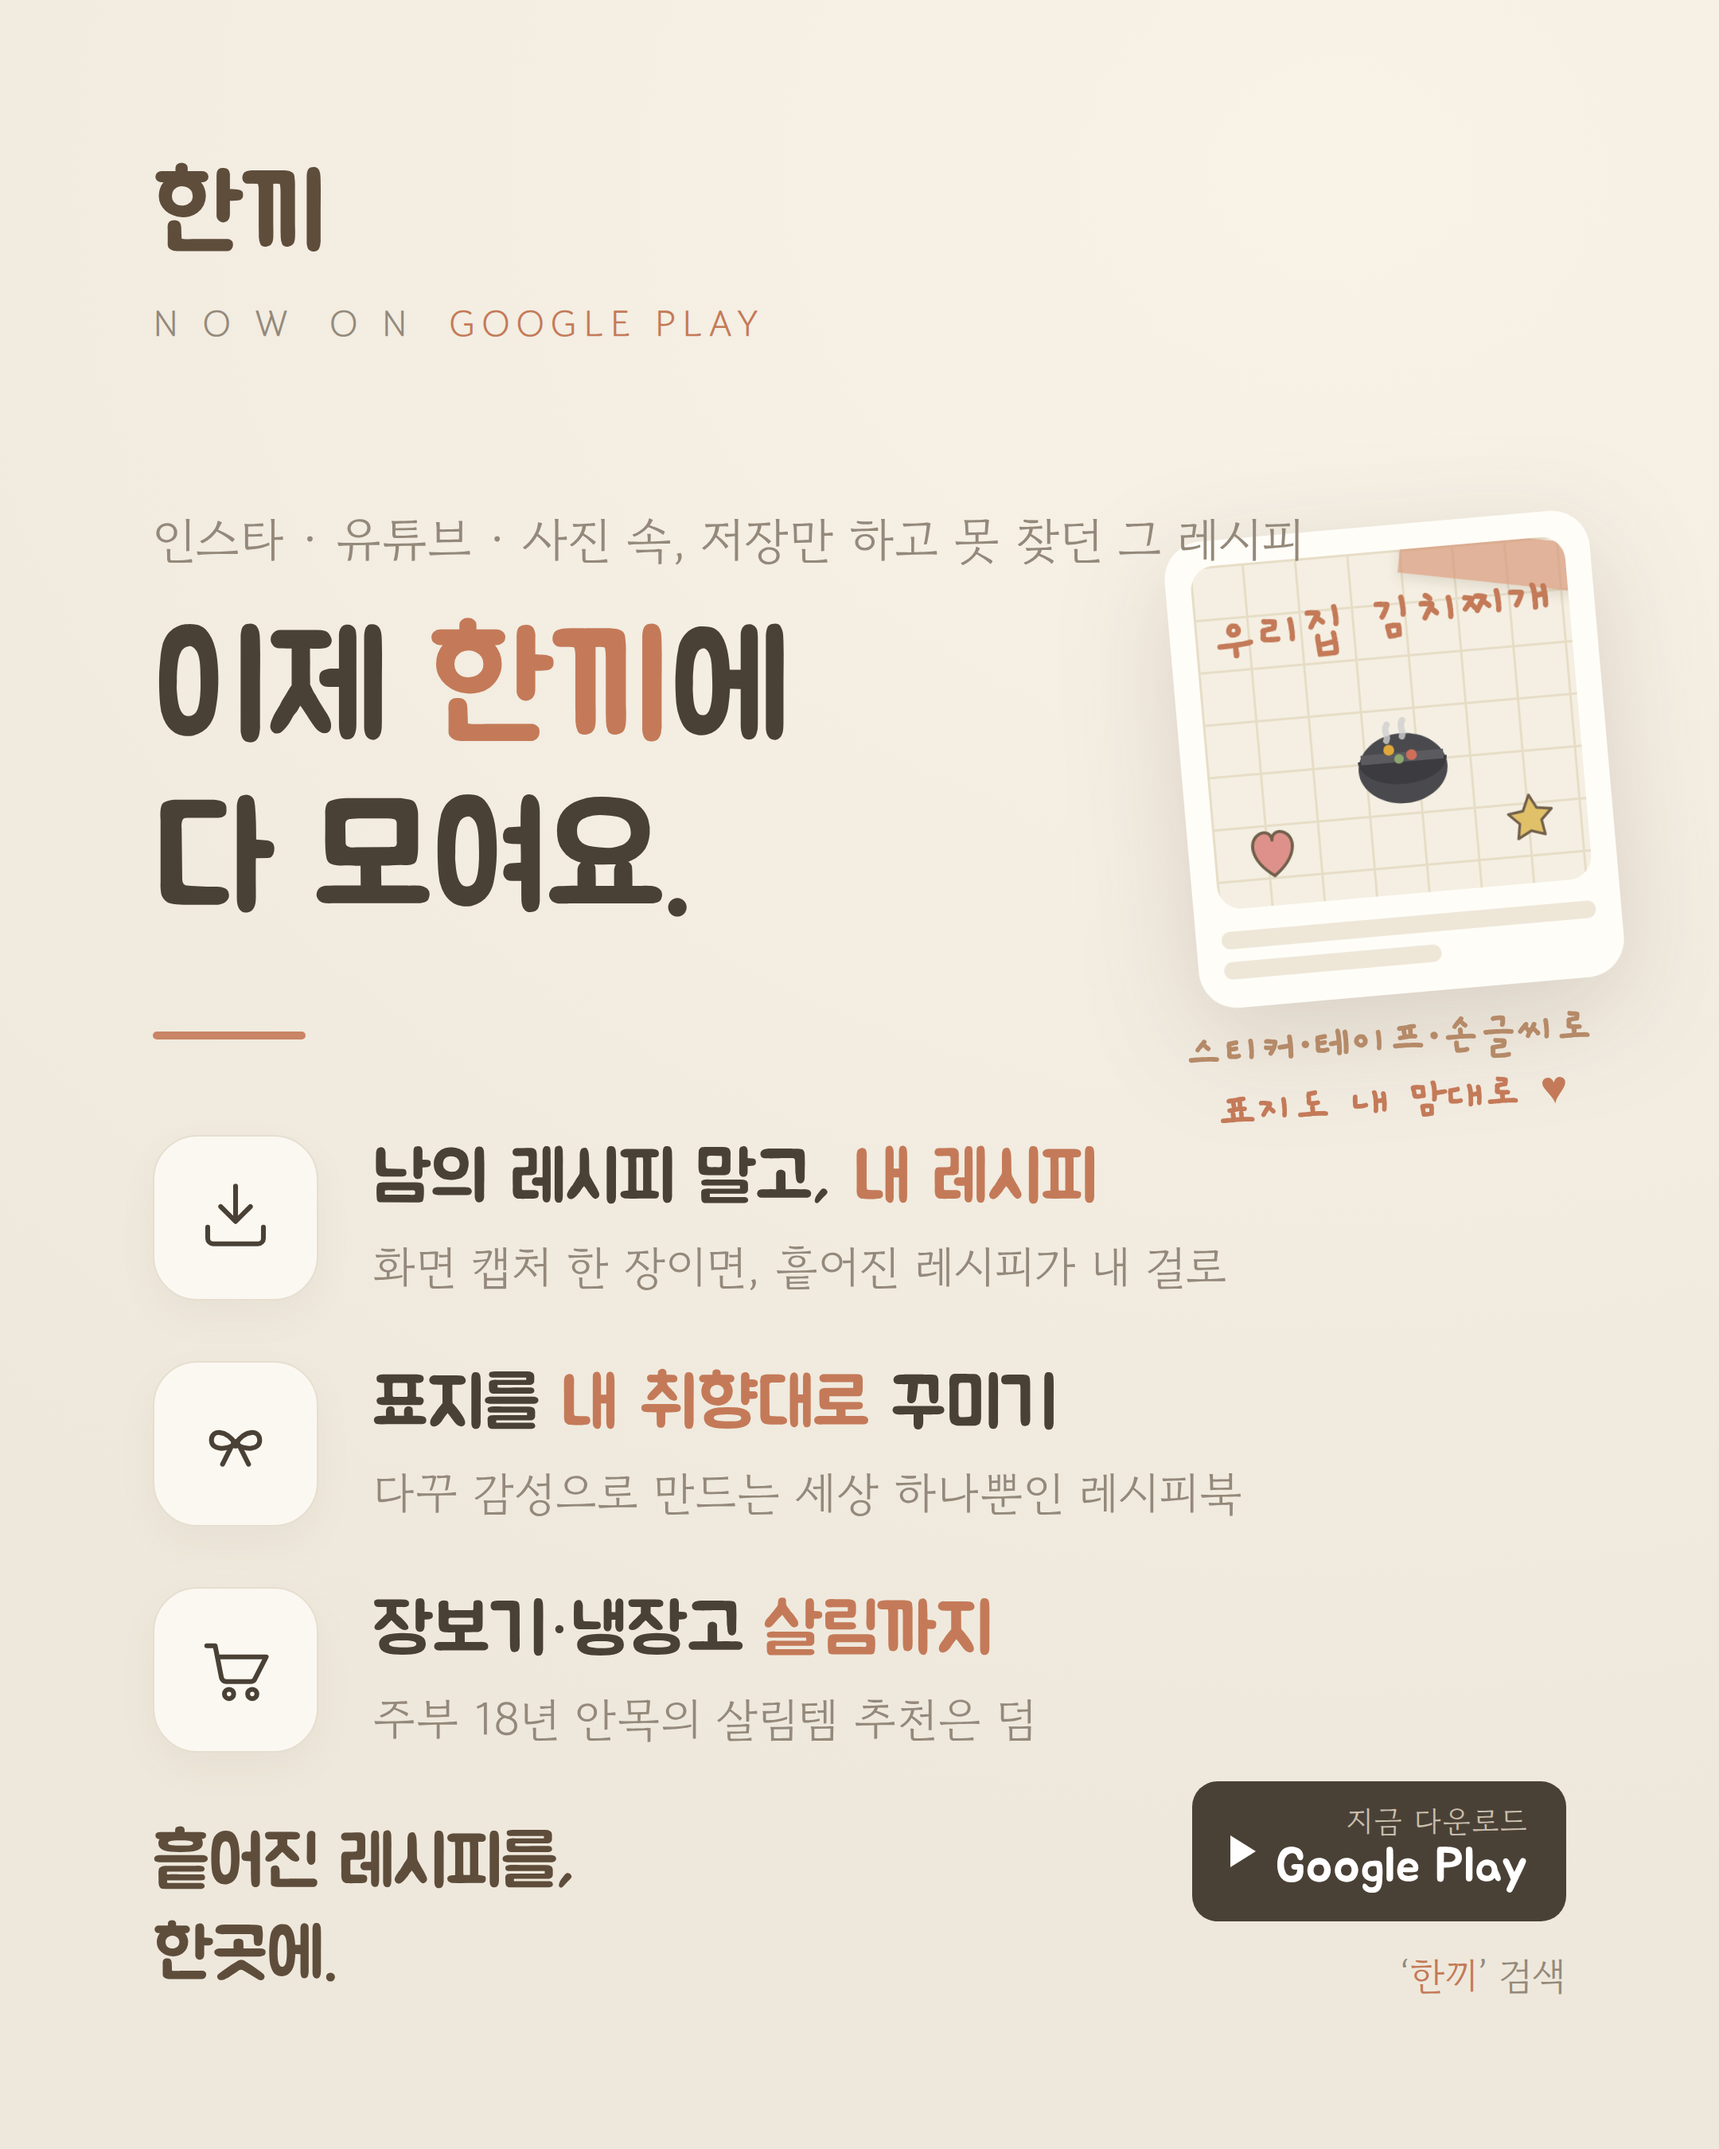
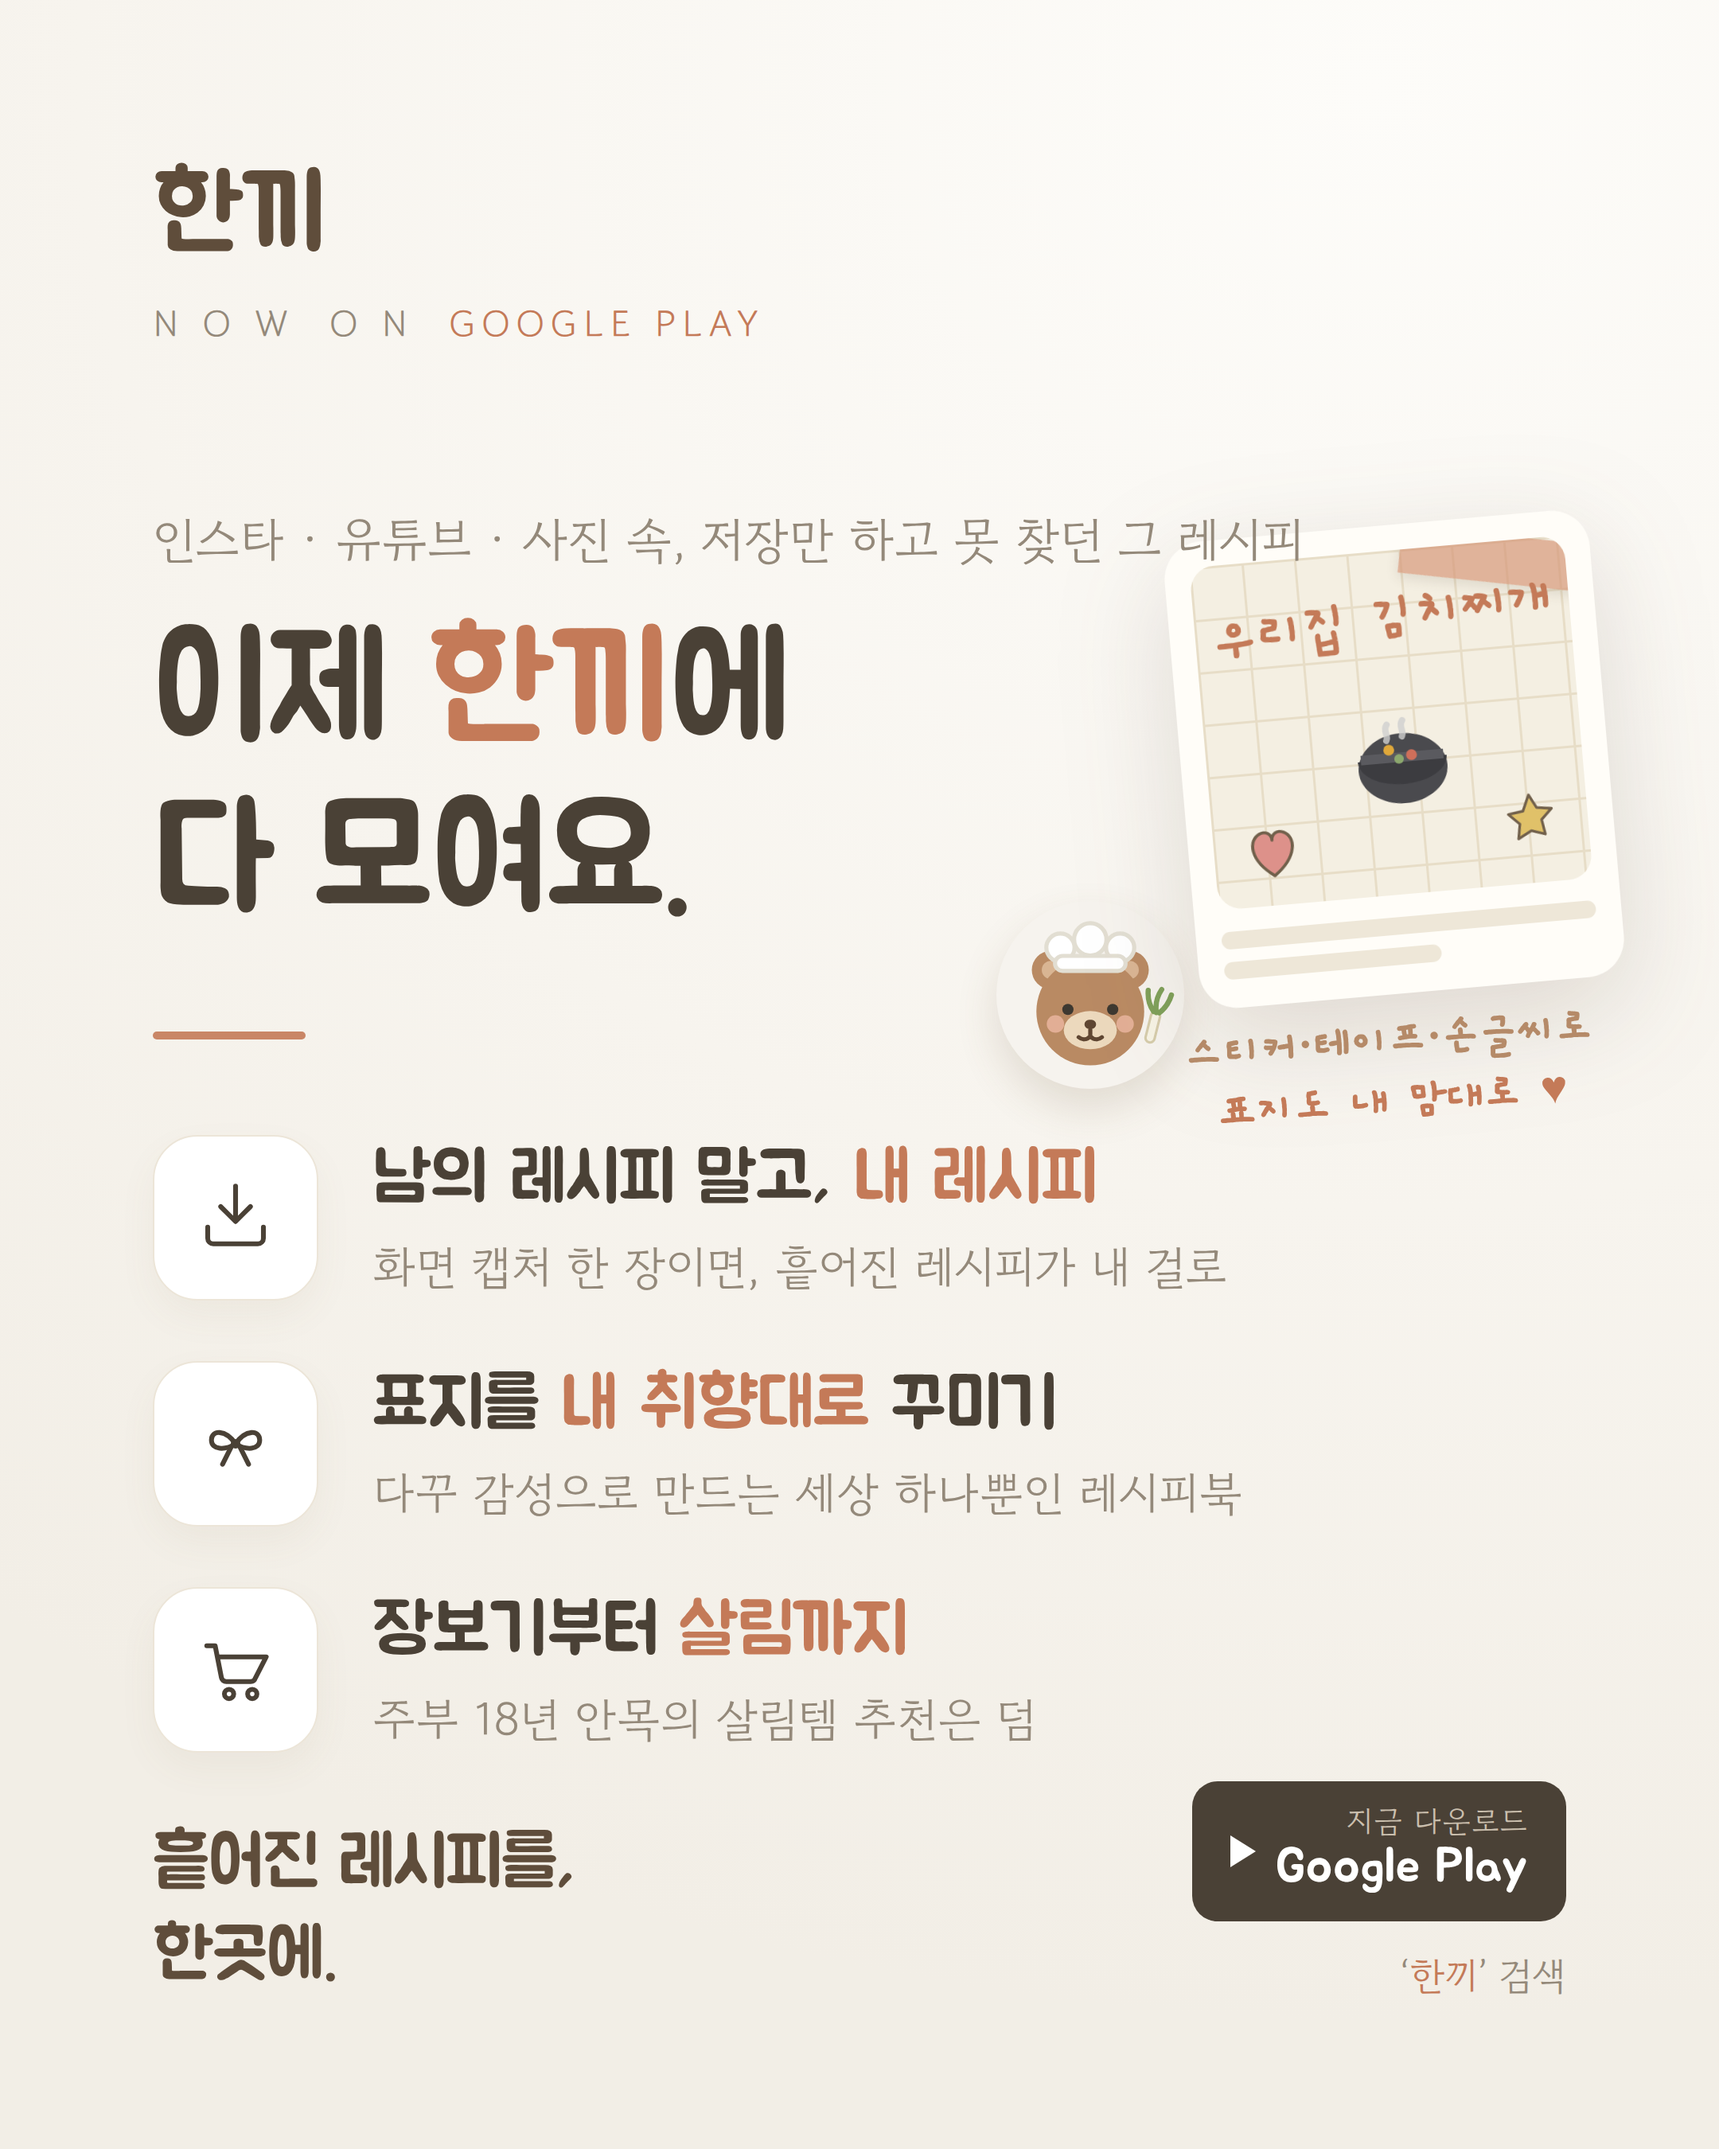
홍보 카드 톤 통일: 하얀 배경 + 곰곰 셰프 빼꼼 + 냉장고 문구 정리(장보기부터 살림까지)
대표 그래픽과 동일한 결로 세트 통일.

Claude-Session: https://claude.ai/code/session_01Hhx7WmfPqapSsbezDHjrDV

Changed region(s): [[0.3102, 0.7467, 0.5894, 0.7778], [0.5894, 0.4356, 0.6824, 0.4978]]

diff --git a/hankki/design/promo/templates/launch-1080x1350.html b/hankki/design/promo/templates/launch-1080x1350.html
@@ -2,11 +2,11 @@
 <link rel="stylesheet" href="../fonts-embed.css">
 <style>
   *{margin:0;padding:0;box-sizing:border-box;-webkit-font-smoothing:antialiased;text-rendering:geometricPrecision}
-  :root{--bg:#f4efe6;--ink:#4a4136;--ink2:#94897a;--line:#e6ded0;--clay:#c47a58;--card:#fbf8f1}
+  :root{--bg:#f7f4ee;--ink:#4a4136;--ink2:#94897a;--line:#ece5d8;--clay:#c47a58;--card:#fff}
   body{background:#777}
   .card{position:relative;overflow:hidden;width:1080px;height:1350px;background:var(--bg);color:var(--ink);
     padding:104px 96px 92px;display:flex;flex-direction:column}
-  .bg-wash{position:absolute;inset:0;background:radial-gradient(120% 80% at 78% 8%, #f8f2e7 0%, #f2ece1 55%, #eee8dc 100%)}
+  .bg-wash{position:absolute;inset:0;background:radial-gradient(130% 90% at 80% 4%, #fdfcf9 0%, #f7f4ee 58%, #f2eee6 100%)}
   .z{position:relative;z-index:2}
   .word{font-family:'Jua';font-size:66px;color:#5f4d3b;letter-spacing:-1px;line-height:1}
   .now{font-family:'GowunDodum';font-size:23px;letter-spacing:4px;color:var(--ink2);margin-top:16px}
@@ -38,6 +38,28 @@
 </style></head><body>
 <div class="card">
   <div class="bg-wash"></div>
+
+  <!-- 곰곰 셰프 — 표지 뒤에서 빼꼼 (대표 그래픽과 톤 통일) -->
+  <div style="position:absolute;top:566px;left:626px;width:118px;height:118px;border-radius:50%;background:#f6f3ee;box-shadow:0 12px 26px rgba(110,84,58,.16);z-index:1;overflow:hidden">
+    <svg viewBox="0 0 48 48" style="width:100%;height:100%;transform:scale(1.06)">
+      <circle cx="14.5" cy="18" r="4.6" fill="#b98a63"/><circle cx="33.5" cy="18" r="4.6" fill="#b98a63"/>
+      <circle cx="14.5" cy="18" r="2.2" fill="#d9b593"/><circle cx="33.5" cy="18" r="2.2" fill="#d9b593"/>
+      <circle cx="24" cy="28" r="13" fill="#b98a63"/>
+      <ellipse cx="24" cy="32.5" rx="6.4" ry="4.6" fill="#ecd9bd"/>
+      <rect x="22.6" y="30" width="2.8" height="2.2" rx="1.1" fill="#5f4632"/>
+      <path d="M24 32.4v1.6M24 34c-.9.9-2 .9-2.8.2M24 34c.9.9 2 .9 2.8.2" stroke="#5f4632" stroke-width="1" fill="none" stroke-linecap="round"/>
+      <circle cx="18.6" cy="27.5" r="1.35" fill="#3d3830"/><circle cx="29.4" cy="27.5" r="1.35" fill="#3d3830"/>
+      <circle cx="15.6" cy="31" r="2.1" fill="#f0b9a6" opacity="0.75"/><circle cx="32.4" cy="31" r="2.1" fill="#f0b9a6" opacity="0.75"/>
+      <circle cx="16.8" cy="12.6" r="3.4" fill="#fff" stroke="#e2ded2" stroke-width="1"/>
+      <circle cx="24" cy="10.6" r="3.9" fill="#fff" stroke="#e2ded2" stroke-width="1"/>
+      <circle cx="31.2" cy="12.6" r="3.4" fill="#fff" stroke="#e2ded2" stroke-width="1"/>
+      <rect x="15.5" y="14.6" width="17" height="3.6" rx="1.8" fill="#fff" stroke="#e2ded2" stroke-width="1"/>
+      <g transform="rotate(14 39.5 30)">
+        <rect x="38.4" y="28" width="2.2" height="7.6" rx="1.1" fill="#f7f3e4" stroke="#d5cbaa" stroke-width="0.6"/>
+        <path d="M39.5 28.2c-.8-1.9-.8-3.8-.1-5.7M38.8 28.1c-1.4-1.2-2.2-2.8-2.5-4.6M40.2 28.1c1.1-1.4 1.7-3 1.8-4.9" stroke="#7fa05a" stroke-width="1.25" fill="none" stroke-linecap="round"/>
+      </g>
+    </svg>
+  </div>
 
   <!-- 꾸미기 맛보기: 작게 꾸민 레시피 표지 하나 (셀링포인트 시각화) -->
   <div style="position:absolute;top:330px;right:70px;width:268px;z-index:1;transform:rotate(-5deg);filter:drop-shadow(0 20px 34px rgba(90,65,45,.17))">
@@ -77,7 +99,7 @@
     </div>
     <div class="row">
       <div class="ic"><svg viewBox="0 0 48 48" fill="none" stroke="#4a4136" stroke-width="2.6" stroke-linecap="round" stroke-linejoin="round"><path d="M8.5 11H13l3.4 17.2a2.6 2.6 0 0 0 2.55 2.1h13.2a2.6 2.6 0 0 0 2.5-1.9L40.5 17H15"/><circle cx="20.5" cy="37" r="2.5"/><circle cx="33" cy="37" r="2.5"/></svg></div>
-      <div><div class="rt">장보기·냉장고 <span class="c">살림까지</span></div><div class="rd">주부 18년 안목의 살림템 추천은 덤</div></div>
+      <div><div class="rt">장보기부터 <span class="c">살림까지</span></div><div class="rd">주부 18년 안목의 살림템 추천은 덤</div></div>
     </div>
   </div>
 
